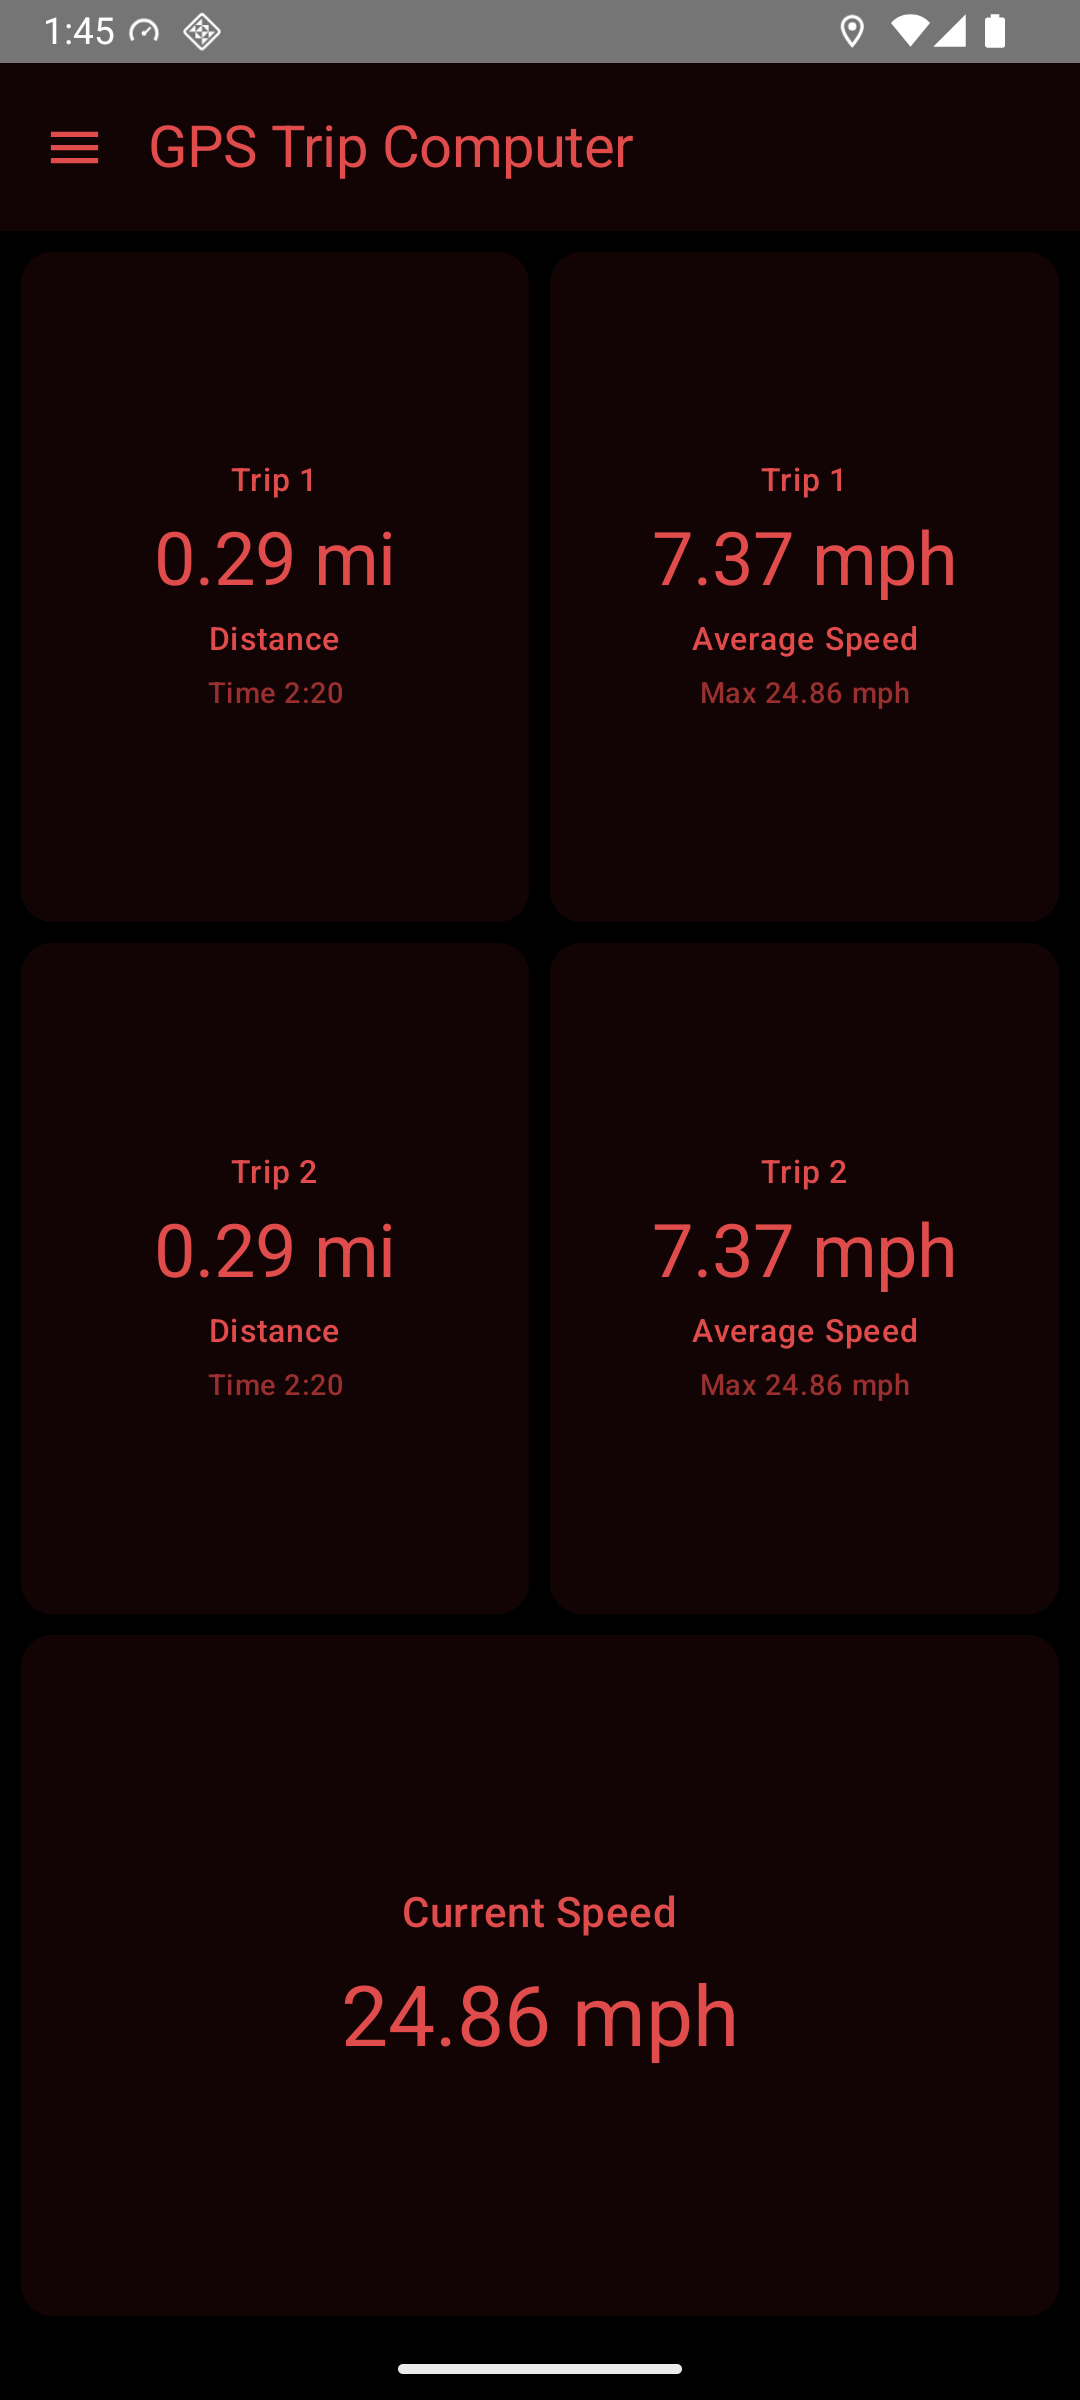
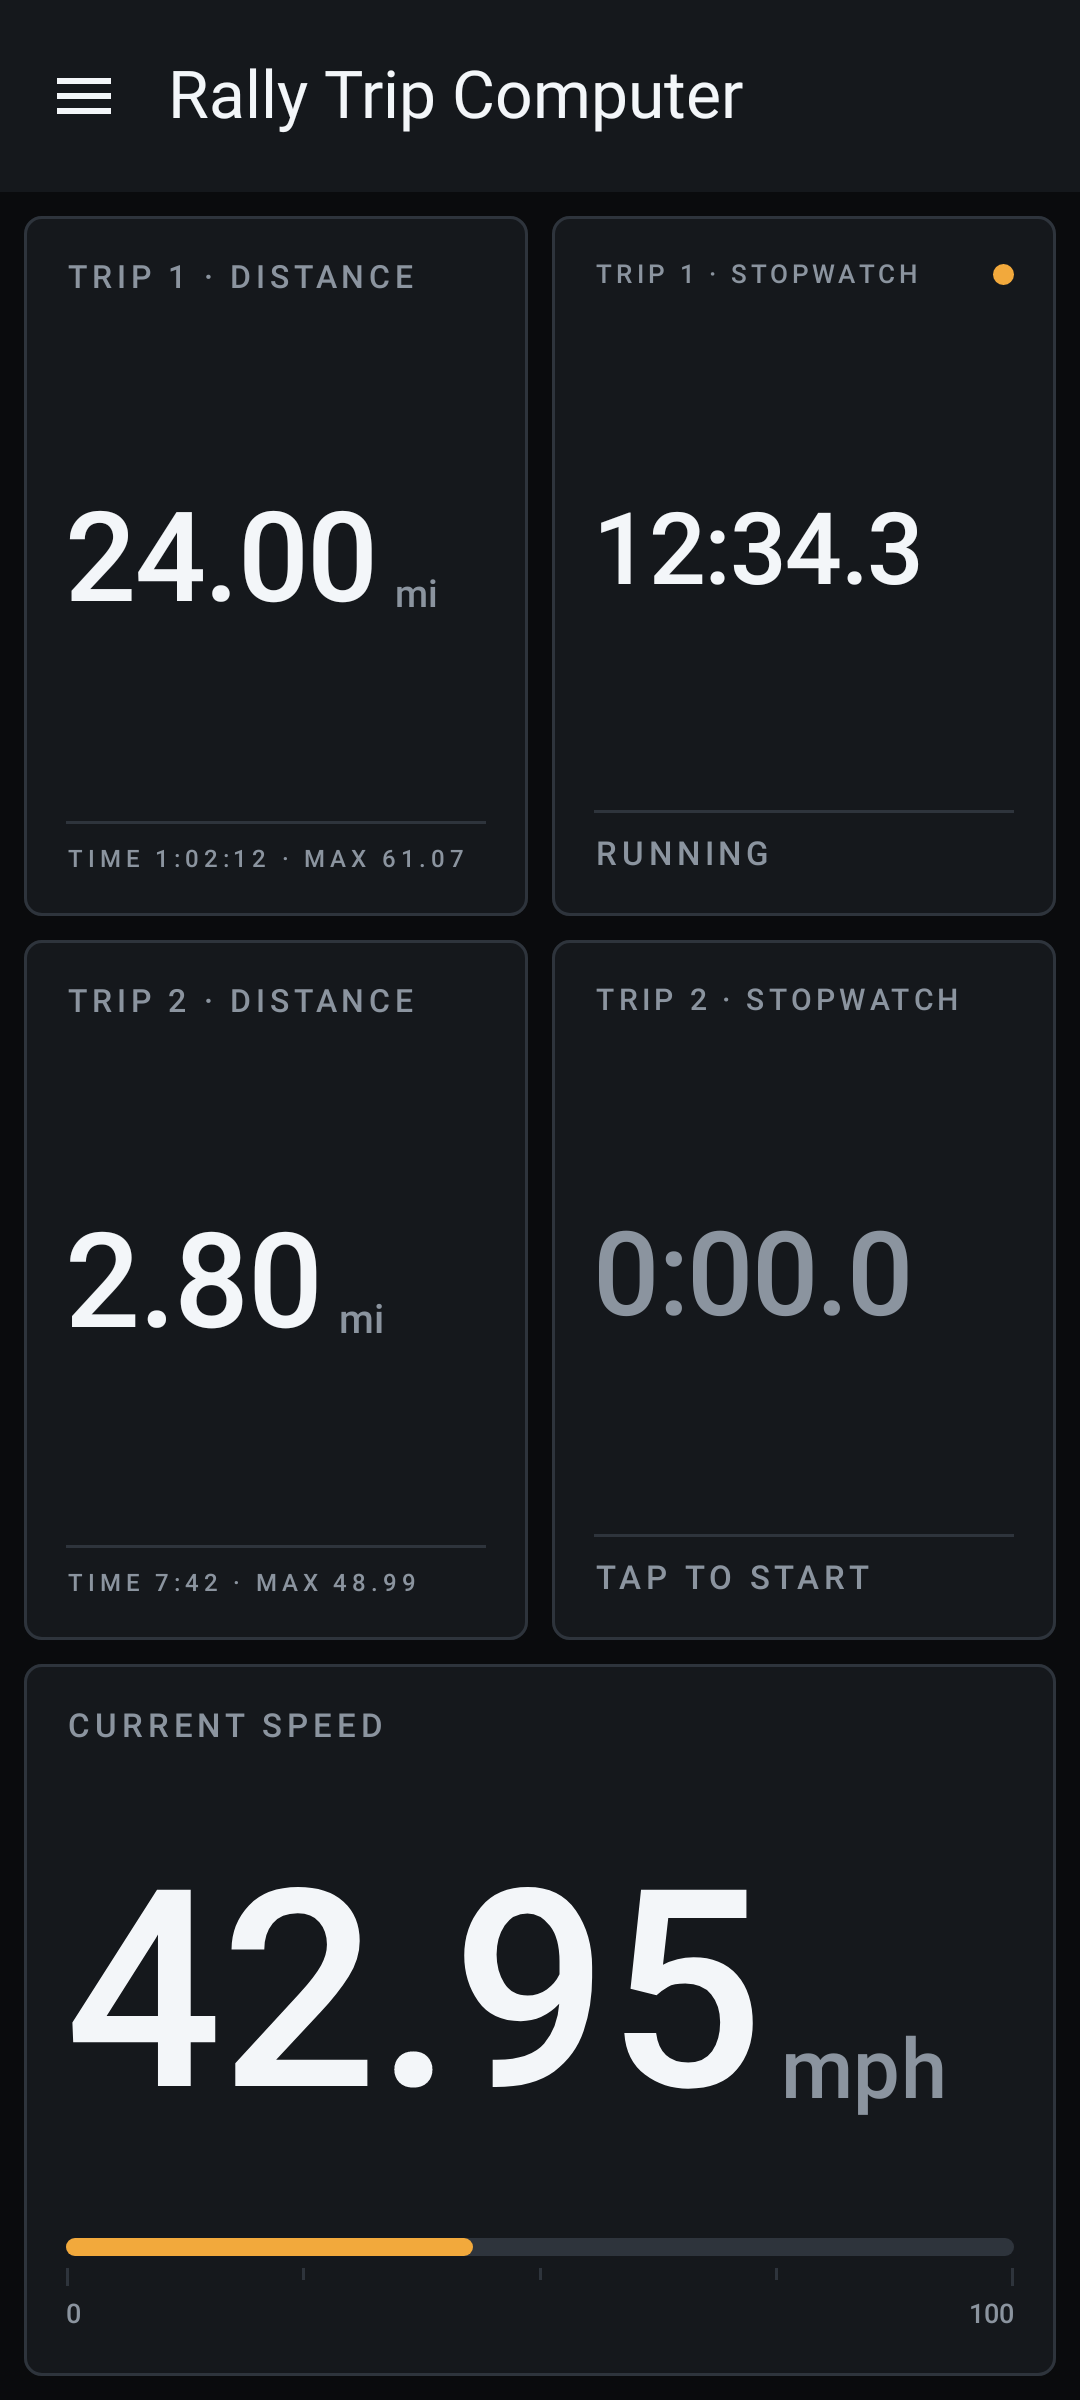
Regenerate the store listing from the app as it is now
The screenshots on the F-Droid page were captured by hand before the
instrument-panel redesign and before regularity mode existed, and showed the
old name in the title bar. The description never mentioned regularity mode at
all, which is the feature most likely to decide whether a rally navigator
installs this.

Screenshots are now generated by StoreScreenshotTest and written straight into
fastlane/metadata, so they are ordinary Roborazzi goldens: verifyRoborazziDebug
re-renders and compares them on every CI run, and a design change that would
leave the listing out of date fails the build instead of going unnoticed. Same
1080x2400 as the set they replace. The three cover standard, night and
regularity, which is the shortest tour that explains what this is for.

Claude-Session: https://claude.ai/code/session_01T7MpSsULumkaWz9JhWsqXF

diff --git a/app/src/test/java/io/github/gitlrd/rallytripcomputer/StoreScreenshotTest.kt b/app/src/test/java/io/github/gitlrd/rallytripcomputer/StoreScreenshotTest.kt
@@ -1,0 +1,172 @@
+package io.github.gitlrd.rallytripcomputer
+
+import androidx.compose.foundation.layout.Arrangement
+import androidx.compose.foundation.layout.Column
+import androidx.compose.foundation.layout.fillMaxSize
+import androidx.compose.foundation.layout.fillMaxWidth
+import androidx.compose.foundation.layout.padding
+import androidx.compose.material.icons.Icons
+import androidx.compose.material.icons.filled.Menu
+import androidx.compose.material3.ExperimentalMaterial3Api
+import androidx.compose.material3.Icon
+import androidx.compose.material3.IconButton
+import androidx.compose.material3.MaterialTheme
+import androidx.compose.material3.Scaffold
+import androidx.compose.material3.Text
+import androidx.compose.material3.TopAppBar
+import androidx.compose.runtime.Composable
+import androidx.compose.ui.Modifier
+import androidx.compose.ui.res.stringResource
+import androidx.compose.ui.test.DeviceConfigurationOverride
+import androidx.compose.ui.test.ForcedSize
+import androidx.compose.ui.test.junit4.createComposeRule
+import androidx.compose.ui.test.onRoot
+import androidx.compose.ui.unit.DpSize
+import androidx.compose.ui.unit.dp
+import com.github.takahirom.roborazzi.captureRoboImage
+import org.junit.Rule
+import org.junit.Test
+import org.junit.runner.RunWith
+import org.robolectric.RobolectricTestRunner
+import org.robolectric.annotation.Config
+import org.robolectric.annotation.GraphicsMode
+
+/**
+ * The screenshots on the F-Droid listing.
+ *
+ * These are generated rather than captured by hand, and they are written straight into
+ * `fastlane/metadata/`, which is the directory F-Droid actually publishes from. That makes
+ * them ordinary Roborazzi goldens: `verifyRoborazziDebug` compares them against a fresh
+ * render on every CI run, so a design change that leaves the store listing showing an older
+ * version of the app fails the build instead of going unnoticed. The previous set was
+ * captured by hand and sat two redesigns and a rename out of date.
+ *
+ * `w360dp-h800dp-xxhdpi` gives exactly 1080x2400, a common phone resolution and the same
+ * size as the hand-captured set it replaces.
+ *
+ * The chrome is reproduced here rather than driven through [TripComputerScreen], which
+ * cannot render outside an Activity: it holds a permission launcher and a navigation drawer.
+ * Only the title bar is duplicated; everything below it is the real [TripRow] and
+ * [SpeedCard] the app draws.
+ */
+@RunWith(RobolectricTestRunner::class)
+@GraphicsMode(GraphicsMode.Mode.NATIVE)
+@Config(qualifiers = "w360dp-h800dp-xxhdpi")
+class StoreScreenshotTest {
+
+    @get:Rule
+    val compose = createComposeRule()
+
+    /** Numbers a navigator would recognise: a leg of a rally, part way through. */
+    private val trip1 = Trip(
+        distanceMetres = 38_624.0,
+        elapsedMillis = 3_732_000,
+        movingMillis = 3_402_000,
+        maxSpeedMps = 27.3
+    )
+
+    /** The second trip, zeroed at the last junction. */
+    private val trip2 = Trip(
+        distanceMetres = 4_506.2,
+        elapsedMillis = 462_000,
+        movingMillis = 448_000,
+        maxSpeedMps = 21.9
+    )
+
+    private fun listing(
+        name: String,
+        themeMode: ThemeMode,
+        rallyMode: RallyMode = RallyMode.STANDARD,
+        stopwatchMillis: Long = 0L,
+        stopwatchRunning: Boolean = false
+    ) {
+        compose.setContent {
+            DeviceConfigurationOverride(
+                DeviceConfigurationOverride.ForcedSize(DpSize(360.dp, 800.dp))
+            ) {
+                MaterialTheme(colorScheme = colorSchemeFor(themeMode)) {
+                    ListingChrome {
+                        Column(
+                            modifier = Modifier.fillMaxSize(),
+                            verticalArrangement = Arrangement.spacedBy(8.dp)
+                        ) {
+                            Column(
+                                modifier = Modifier.fillMaxWidth().weight(2f),
+                                verticalArrangement = Arrangement.spacedBy(8.dp)
+                            ) {
+                                TripRow(
+                                    tripNumber = 1,
+                                    trip = trip1,
+                                    unitSystem = UnitSystem.IMPERIAL,
+                                    includeStoppedTime = true,
+                                    rallyMode = rallyMode,
+                                    onReset = {},
+                                    modifier = Modifier.fillMaxWidth().weight(1f),
+                                    stopwatchMillis = stopwatchMillis,
+                                    stopwatchRunning = stopwatchRunning
+                                )
+                                TripRow(
+                                    tripNumber = 2,
+                                    trip = trip2,
+                                    unitSystem = UnitSystem.IMPERIAL,
+                                    includeStoppedTime = true,
+                                    rallyMode = rallyMode,
+                                    onReset = {},
+                                    modifier = Modifier.fillMaxWidth().weight(1f),
+                                    stopwatchMillis = 0L,
+                                    stopwatchRunning = false
+                                )
+                            }
+                            SpeedCard(
+                                speedMps = 19.2,
+                                unitSystem = UnitSystem.IMPERIAL,
+                                modifier = Modifier.fillMaxWidth().weight(1f)
+                            )
+                        }
+                    }
+                }
+            }
+        }
+        compose.onRoot().captureRoboImage(
+            "../fastlane/metadata/android/en-US/images/phoneScreenshots/$name.png",
+            screenshotOptions()
+        )
+    }
+
+    @OptIn(ExperimentalMaterial3Api::class)
+    @Composable
+    private fun ListingChrome(content: @Composable () -> Unit) {
+        Scaffold(
+            topBar = {
+                TopAppBar(
+                    title = { Text(stringResource(R.string.app_name)) },
+                    navigationIcon = {
+                        IconButton(onClick = {}) {
+                            Icon(Icons.Default.Menu, stringResource(R.string.menu))
+                        }
+                    }
+                )
+            }
+        ) { paddingValues ->
+            Column(modifier = Modifier.padding(paddingValues).padding(8.dp)) { content() }
+        }
+    }
+
+    /** The app as most people will first see it. */
+    @Test
+    fun standardDark() = listing("1", ThemeMode.DARK)
+
+    /** Night mode, which is the reason the app exists in the form it does. */
+    @Test
+    fun night() = listing("2", ThemeMode.NIGHT)
+
+    /** Regularity mode, with a stopwatch running in place of the average speed. */
+    @Test
+    fun regularity() = listing(
+        name = "3",
+        themeMode = ThemeMode.DARK,
+        rallyMode = RallyMode.REGULARITY,
+        stopwatchMillis = 754_300,
+        stopwatchRunning = true
+    )
+}
